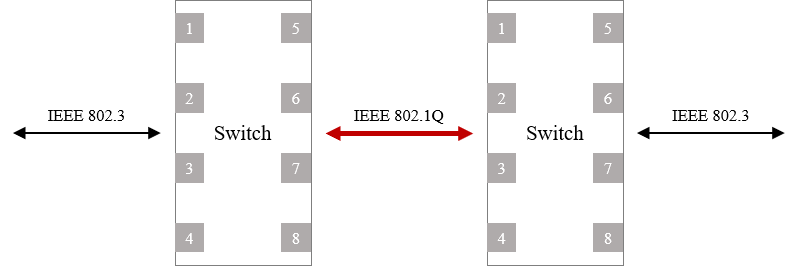
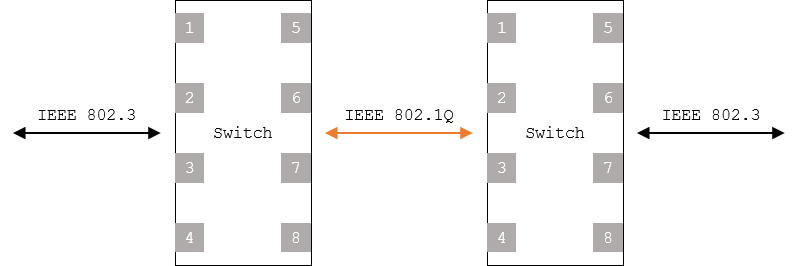
network

diff --git a/network/chap3self.html b/network/chap3self.html
@@ -22,18 +22,15 @@
     </header>
     <img src="./imgs/linkLayer2/幻灯片3.JPG" alt="">
     <dl>
-      <dd>交换机通过维护一个 MAC 地址表/转发表来实现链路层数据帧的通信</dd>
-      <dd>交换机通过学习数据帧的源 MAC 地址来建立 MAC 地址表 - 基于源 MAC 帧</dd>
-      <dt>MAC table</dt>
-      <dd>内容 Component：
-        <p>进入交换机的数据帧的源地址和进入的端口号，所在 Vlan 及有效时间</p>
-        <p>哪个端口 Port 连着谁 MAC</p>
-        <p>谁 MAC 从哪个端口进来</p>
+      <dt>MAC 表内容 Contents</dt>
+      <dd>交换机通过维护一个 <strong>MAC 地址表</strong>/转发表来实现链路层数据帧的通信</dd>
+      <dd>记录各个端口对应设备的 MAC 地址
+        <p>MAC：连接设备的 MAC 地址</p>
+        <p>Port：设备连接的端口</p>
+        <p>Timer：默认老化时间 Aging Time； 思科交换机、华为交换机默认都是 300s；如果一个 MAC 地址条目在 300 秒内没有再次收到来自该 MAC 的报文，交换机就会认为该设备已离线，并将其从表中删除
+        </p>
       </dd>
-      <dd>容量 Capacity
-        <p>MAC 表条目的大小</p>
-        <p>1K、2k、4k</p>
-      </dd>
+      <dd>默认情况下，所有的端口都在同一个Vlan： vlan 1</dd>
       <table>
         <caption>交换机的MAC地址表</caption>
         <tbody>
@@ -43,9 +40,9 @@
             <td>Timer</td>
           </tr>
           <tr>
-            <td>&nbsp;</td>
-            <td>&nbsp;</td>
-            <td>&nbsp;</td>
+            <td>0001.96A4.415E</td>
+            <td>FastEhernet0/1</td>
+            <td>300</td>
           </tr>
           <tr>
             <td>&nbsp;</td>
@@ -54,20 +51,32 @@
           </tr>
         </tbody>
       </table>
-      <dt>Procedure</dt>
+      <figure>
+        <img src="./imgs/mac3.png" alt="">
+        <figcaption>PT 中的 MAC Table</figcaption>
+      </figure>
+      <dt>核心思想 Thinking</dt>
+      <dd>交换机每收到一个帧，都做2件事情：先学习，再转发</dd>
+      <dd>学习：<strong>基于源 MAC 地址</strong>，建表；MAC 地址对应的设备在哪个口；从哪个端口进来的；根据进入端口建表</dd>
+      <dd>转发：<strong>基于目的 MAC 地址</strong>，查表并转发；帧往哪去；根据登记端口转发</dd>
+      <dd>建表在前，查表在后，不能颠倒；因为本次学习的结果可能直接决定本次转发</dd>
+      <dd class="tips">
+        <p>MAC 地址表里登记的端口，是“该目的 MAC 曾经作为源 MAC 出现过的端口”</p>
+      </dd>
+      <dt>基本过程 Procedure</dt>
       <div>1. 登记 Registration</div>
-      <dd>查找表中是否有与接收帧的源 MAC 地址匹配的项目：
-        <p>如果有，则更新</p>
-        <p>如果没有，则增加</p>
+      <dd>查表中是否有与接收帧的源 MAC 匹配的表项
+        <p>如果有 → 更新（刷新端口、老化计时）</p>
+        <p>如果没有 → 增加一条新表项（学习并建表）</p>
       </dd>
       <div>2. 转发 Forwarding</div>
-      <dd>是否是广播帧：
-        <p>如果是，全端口转发</p>
-        <p>如果不是，则查找表中是否有与接收帧的目的MAC地址匹配的项目：</p>
-        <p>- 如果没有，则泛洪 Flooding 到其他所有端口上</p>
-        <p>- 如果有，则比较进入的端口与登记的端口：</p>
-        <p>- - 如果不同，则按照登记的端口转发 Forwarding</p>
-        <p>- - 如果相同，表明是同一侧的主机，不需要转发，丢弃 Disregarding /过滤 Filtering 该帧</p>
+      <dd>判断目的 MAC 的类型（查表）</dd>
+      <dd>如果是广播帧或组播帧：除入端口外，向同 VLAN 的所有端口泛洪 Flooding 转发出去</dd>
+      <dd>如果是单播帧，查表中是否有与目的 MAC 匹配的表项
+        <p>如果没有，是未知单播帧，泛洪 Flooding 到同 VLAN 的其他所有端口</p>
+        <p>如果有，则比较进入的端口与登记的端口，确定目的主机和源主机是不是在同一侧：</p>
+        <p>情况1：端口不同，则按照登记的端口转发 Forwarding（核心工作状态）</p>
+        <p>情况2：端口相同，表明是同一侧的主机，不需要转发，丢弃 Disregarding /过滤 Filtering 该帧</p>
       </dd>
       <div class="demo"> MAC 地址表的动态维护</div>
       <figure>
@@ -75,20 +84,19 @@
         <figcaption>维护过程</figcaption>
       </figure>
       <ol>
-        <li>A → D
-          <P>查找交换表，存在</P>
-          <p>按登记端口转发 Forwarding；这是最期望的高效转发</p>
-          <p>单播</p>
-          <p>同时登记 A → 1</p>
-        </li>
+        <li>A → D</li>
+        <p>学习：源 A 不在表中，登记 A → 1</p>
+        <P>转发：单播；查找交换表，目标 D 存在，且登记端口 4 ≠ 入端口 1，按登记端口 4 转发 Forwarding；这是最期望的高效转发</p>
         <table>
           <caption>交换机的 MAC 地址表</caption>
-          <tbody>
+          <thead>
             <tr>
-              <td>MAC</td>
-              <td>Port</td>
-              <td>Timer</td>
+              <th>MAC</th>
+              <th>Port</th>
+              <th>Timer</th>
             </tr>
+          </thead>
+          <tbody>
             <tr>
               <td>D</td>
               <td>4</td>
@@ -101,19 +109,20 @@
             </tr>
           </tbody>
         </table>
-        <li>A → B
-          <P>查找交换表，没有</P>
-          <p>为了确保帧能到达目标，全端口泛洪 Flooding 转发/广播</p>
-          <p>B 收到并回复，则交换机学习到了 B 的位置；登记 B → 2</p>
-        </li>
+
+        <li>A → B</li>
+        <p>学习：源 A 在表中，更新老化时间</p>
+        <P>转发：目标 B 不存在，泛洪 Flooding 端口2、3、4；B 收到并回复，则登记 B → 2；C、D 则丢弃</p>
         <table>
           <caption>交换机的 MAC 地址表</caption>
-          <tbody>
+          <thead>
             <tr>
-              <td>MAC</td>
-              <td>Port</td>
-              <td>Timer</td>
+              <th>MAC</th>
+              <th>Port</th>
+              <th>Timer</th>
             </tr>
+          </thead>
+          <tbody>
             <tr>
               <td>D</td>
               <td>4</td>
@@ -131,28 +140,43 @@
             </tr>
           </tbody>
         </table>
-        <li>E → A
-          <p>过滤 Filtering</p>
-          <p>最不希望的转发</p>
-        </li>
+
+        <li>E → A</li>
+        <p>学习：源 E 不在表中，登记 E → 1</p>
+        <P>转发：目标 A 存在，且登记端口 1 = 入端口 1，丢弃/过滤 Filtering</p>
+        <table>
+          <caption>交换机的 MAC 地址表</caption>
+          <thead>
+            <tr>
+              <th>MAC</th>
+              <th>Port</th>
+              <th>Timer</th>
+            </tr>
+          </thead>
+          <tbody>
+            <tr>
+              <td>D</td>
+              <td>4</td>
+              <td></td>
+            </tr>
+            <tr>
+              <td>A</td>
+              <td>1</td>
+              <td></td>
+            </tr>
+            <tr>
+              <td>B</td>
+              <td>2</td>
+              <td></td>
+            </tr>
+            <tr>
+              <td>E</td>
+              <td>1</td>
+              <td></td>
+            </tr>
+          </tbody>
+        </table>
       </ol>
-      <div class="demo"> p114-3-30
-        某学院的以太网交换机有三个端口分别和学院三个系的以太网相连，另外三个端口分别和电子邮件服务器、万维网服务器以及一个连接互联网的路由器相连。图中的 A、B 和 C 都是 100-Mbit/s
-        以太网交换机。假定所有的链路的速率都是 100 Mbit/s，并且图中的 9 台主机中的任何一台都可以向任何一台服务器或主机通信。试计算这 9 台主机和两台服务器产生的总的吞吐量的最大值。</div>
-      <dd>答：</dd>
-      <div class="txt-indent">
-        <p>总吞吐量 = 9台主机的吞吐量 + 2台服务器的吞吐量</p>
-        <p>= 900 Mbit/s + 200 Mbit/s</p>
-        <p>= 1100 Mbit/s</p>
-      </div>
-      <div class="demo"> p114-3-31假定图 上例中的所有链路的速率仍然为 100 Mbit/s，但三个系的以太网交换机都换成 100
-        Mbit/s
-        的集线器。试计算这 9 台主机和两台服务器产生的总的吞吐量的最大值。</div>
-      <dd>答：</dd>
-      <div class="txt-indent">
-        <p>如果把三台交换机换成集线器，由于集线器是总线型，同一集线器下同一时刻只能一台设备发送数据</p>
-        <p>所以图中9台主机其实只有三台在发送，吞吐量是300M，两个服务器吞吐量是200M，所以吞吐总量是500M</p>
-      </div>
       <div class="demo"> p114-3-33 初始交换表为空</div>
       <figure>
         <img src="./imgs/lan0.png" alt="">
@@ -199,6 +223,9 @@
           </tr>
         </tbody>
       </table>
+      <div class="demo">查看老化时间</div>
+      <dd>PT中，点击快进“Fast Forward Time”，再查看 MAC 表，条目会消失</dd>
+      <dd>真实设备使用 show mac address-table aging-time 或 show mac address-table 查看</dd>
     </dl>
     <h2>Security</h2>
     <dl>
@@ -228,6 +255,7 @@
           <div>C：源物理地址</div>
           <div>D：源 IP 地址</div>
         </li>
+        <!-- <P>A</P> -->
         <li>选择学校组织结构中某一个或几个分系统，利用交换机和 PC 模拟搭建局域网
           <p>部门之间如何互不影响的通信？</p>
           <p>学校规模达到一定阶段后，如何更好的组织网络？</p>

diff --git a/network/chap3switch.html b/network/chap3switch.html
@@ -21,36 +21,31 @@
         <p>如无特别说明，交换机都是指交换式集线器 - <strong>以太网交换机</strong></p>
       </div>
       <dt>概述 Overview</dt>
-      <dd>交换机是工作在OSI模型第二层 - 数据链路层；也叫 L2 Switch</dd>
+      <dd>交换机是工作在 OSI 模型第二层 - 数据链路层，所以也叫二层交换机 L2 Switch</dd>
       <dd>多端口
         <p>每个端口都与一个主机或另外一个交换机直接相连</p>
-        <p>每个端口都是一个独立的冲突域 - 隔离冲突</p>
+        <p>每个端口都是一个独立的冲突域，用以隔离冲突，减少了数据包冲突的可能性</p>
       </dd>
       <dd>多速率</dd>
       <dd>全双工通信</dd>
       <dd>具备缓存功能</dd>
       <dd>信道利用率提高</dd>
-      <dt>工作原理 Principal</dt>
-      <dd>能够根据MAC地址进行数据帧的转发决策</dd>
-      <dd>交换机内部维护着一张 <strong>MAC地址表</strong>，通过学习网络上各个设备的MAC地址及其对应的端口来转发数据帧</dd>
-      <dd>当交换机收到一个数据帧时，它会检查帧中的目的MAC地址，并将数据帧转发至正确的端口</dd>
-      <dd>交换机提供独立的冲突域，每个端口都是一个单独的冲突域，减少了数据包冲突的可能性</dd>
     </dl>
     <h2>分类 Classification</h2>
     <dl>
       <dt>按交换方式 Mode</dt>
-      <dd>存储转发 store and forward
+      <dd>存储转发 Store and Forward
         <p>接收/缓存完整的数据帧，校验（CRC）、过滤碎片，最后转发</p>
         <p>转发是由专门的ASIC交换芯片实现</p>
         <p>优点：提供差错校验和速率不一致的非对称交换</p>
         <p>缺点：时延长</p>
       </dd>
-      <dd>直通式 cut-through
+      <dd>直通式 Cut-Through
         <p>不做缓存</p>
         <p>不做校验，收到即转发，可能有坏帧</p>
         <p>和存储转发的特点刚好相反</p>
       </dd>
-      <dd>碎片过滤式 fragment free
+      <dd>碎片过滤式 Fragment Free
         <p>融合了以上2种优势</p>
         <p>转发前先检验数据帧的长度是否够64个字节；如果大于或等于就转发；如果不够，就作为碎片丢弃；（以太网帧 >= 64字节）</p>
         <p>目前硬件的转发速度够快，基本可以忽略时延的影响</p>
@@ -65,7 +60,6 @@
         <p>集成了路由功能</p>
         <p>路由器默认都是三层</p>
       </dd>
-      <dd>多层交换机</dd>
       <dt>按交换结构 Structure</dt>
       <dd>固定端口交换机
         <p>接入交换机一般都是固定端口的交换机</p>
@@ -123,25 +117,47 @@
       <div class="demo"> 交换机容量</div>
       <div class="txt-indent">
         <div>48个千兆电 + 4个千兆光的交换机容量
-          <p>= ( 48*1G + 4*1G )*2</p>
+          <p>= 48 × 1G × 2 + 4 × 1G × 2</p>
           <p>= 104Gbps</p>
         </div>
       </div>
-      <dt>MAC地址数</dt>
-      <dd>交换机MAC地址表中可以存储最大的MAC地址的数量</dd>
-      <dt>Vlan表项</dt>
-      <dd>交换机最大支持的 Vlan的数量</dd>
-      <dd>根据 IEEE 802.1Q 标准，VLAN ID 是 12 位，因此理论上最多支持 2^12 = 4096 个 VLAN - 4K</dd>
+      <div class="demo"> p114-3-30
+        某学院的以太网交换机有三个端口分别和学院三个系的以太网相连，另外三个端口分别和电子邮件服务器、万维网服务器以及一个连接互联网的路由器相连。图中的 A、B 和 C 都是 100-Mbit/s
+        以太网交换机。假定所有的链路的速率都是 100 Mbit/s，并且图中的 9 台主机中的任何一台都可以向任何一台服务器或主机通信。试计算这 9 台主机和两台服务器产生的总的吞吐量的最大值。</div>
+      <dd>答：</dd>
+      <div class="txt-indent">
+        <p>总吞吐量 = 9台主机的吞吐量 + 2台服务器的吞吐量</p>
+        <p>= 900 Mbit/s + 200 Mbit/s</p>
+        <p>= 1100 Mbit/s</p>
+      </div>
+      <div class="demo"> p114-3-31假定图 上例中的所有链路的速率仍然为 100 Mbit/s，但三个系的以太网交换机都换成 100
+        Mbit/s
+        的集线器。试计算这 9 台主机和两台服务器产生的总的吞吐量的最大值。</div>
+      <dd>答：</dd>
+      <div class="txt-indent">
+        <p>如果把三台交换机换成集线器，由于集线器是总线型，同一集线器下同一时刻只能一台设备发送数据</p>
+        <p>所以图中9台主机其实只有三台在发送，吞吐量是300M，两个服务器吞吐量是200M，所以吞吐总量是500M</p>
+      </div>
+      <dt>MAC 地址数</dt>
+      <dd>交换机 MAC 地址表中可以存储最大的 MAC 地址的数量</dd>
+      <dt>Vlan 表项</dt>
+      <dd>交换机最大支持的 Vlan 的数量</dd>
+      <dd>根据 IEEE 802.1Q 标准，VLAN ID 是 12 位，因此理论上最多支持的 Vlan 个数为</dd>
+      <dd>2<sup>12</sup></dd>
+      <dd>= 2<sup>2</sup>2<sup>10</sup></dd>
+      <dd>=4 × 1024 （俗称 4K）</dd>
+      <dd>= 4096 （个）</dd>
       <dd>其中 VLAN 0 和 VLAN 4095 被保留；VLAN 1 为默认 VLAN，所以实际可用的 VLAN ID 范围是 1-4094</dd>
       <dt>包转发率 Packet Forwarding Rate</dt>
       <dd>交换机每秒能够成功转发的数据包数量，单位是 pps (packets per second)</dd>
       <dd>通常以最小帧长 64byte 来计算理论最大值</dd>
+      <dd>因为数据包越小，同样带宽下需要处理的包数量就越多，对交换机的处理压力就越大</dd>
+      <dd class="txt-center">包转发率 = 端口速率 / (前导码 + 帧长 + 帧间隙)</dd>
       <div class="demo"> 对于一个 1 Gbps 端口，交换机包转发率</div>
       <div class="txt-indent">
-        <p>包转发率 = 端口速率 / (前导码 + 帧长 + 帧间隙)</p>
-        <p>= 1000 Mbps / (64 + 7 + 1 + 12) byte</p>
-        <p>= 1000 Mbps / 84 byte</p>
-        <p>= 1000 Mbps / (84 × 8) bit</p>
+        <p>= 1Gbps / (7 + 1 + 64 + 12) byte</p>
+        <p>= 1Gbps / 84 byte</p>
+        <p>= 1Gbps / (84 × 8) bit</p>
         <p>≈ 1488095 pps ≈ 1.488 Mpps</p>
       </div>
     </dl>

diff --git a/network/chap3frame.html b/network/chap3frame.html
@@ -41,7 +41,7 @@
           <tr>
             <td>7</td>
             <td>1</td>
-            <td>1518</td>
+            <td>64-1518</td>
             <td>12</td>
           </tr>
         </tbody>
@@ -57,7 +57,10 @@
       <dd>0xAB；10101011</dd>
       <dd>标志着有效帧的开始。打破了 Preamble 的交替模式（最后两位为11），告诉接收端：现在开始接收真正的帧头了</dd>
       <dd>SFD 是帧的正式起点，但不是 MAC 帧的一部分</dd>
-      <div>3. 帧间隔 IFG，Inter-Frame Gap</div>
+      <div>3. 数据帧 Frame</div>
+      <dd>最短帧：64 Bytes</dd>
+      <dd>最长帧：1518 Bytes</dd>
+      <div>4. 帧间隔 IFG，Inter-Frame Gap</div>
       <dd>12 Bytes</dd>
       <dd>帧和帧之间的间隔</dd>
       <dd>紧跟在当前帧的 FCS 之后，下一个帧的 Preamble 之前</dd>
@@ -166,10 +169,17 @@
       <dt>数据载荷、Data</dt>
       <dd>46 Bytes 到 1500 Bytes</dd>
       <dd>最小长度：46 Bytes；不足，会用填充字节补足</dd>
-      <dd>最大长度：1500 Bytes；标准的MTU - Maximum Transmission Unit</dd>
-      <dd>封装的上层协议数据，如IP包、ARP请求等</dd>
+      <dd>最大长度：<strong>1500 Bytes</strong>；标准的MTU - Maximum Transmission Unit</dd>
+      <dd>封装的上层协议数据，如 IP 包、ARP 请求等</dd>
       <dd>总帧长限制：整个以太网帧（不含Preamble和SFD）最大长度为：</dd>
       <dd class="txt-center">1500 + 6 + 6 + 2 + 4 = 1518 Bytes</dd>
+      <div class="tips">
+        <p>1500</p>
+        <p>如果太大（如4KB）：当时的硬件内存撑不住，且一旦冲突重传代价极高</p>
+        <p>如果太小（如512字节）：协议开销太大，有效数据占比低，效率极差</p>
+        <p>经过大量实验，工程师们最终选中了 1500 这个数字</p>
+        <p>既能保证不错的传输效率，又不会撑爆当时的硬件缓冲区，是物理定律、硬件极限和用户需求之间的最佳平衡点</p>
+      </div>
       <dt>帧校验序列，FCS，Frame Check Sequence</dt>
       <dd>4 Bytes</dd>
       <dd>用于检错</dd>
